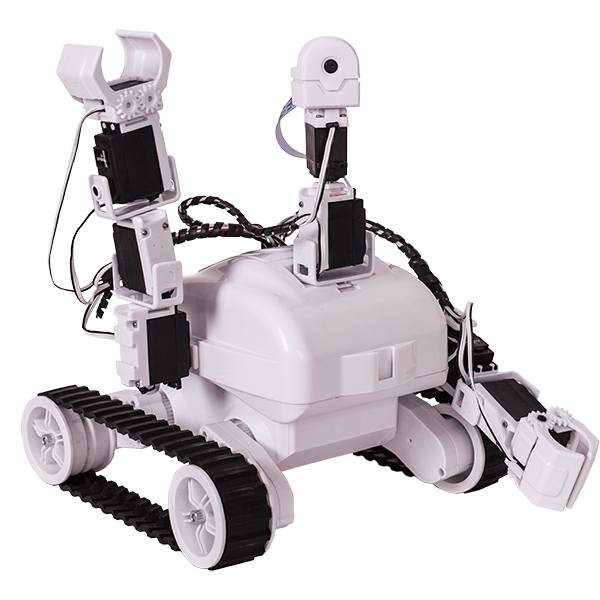
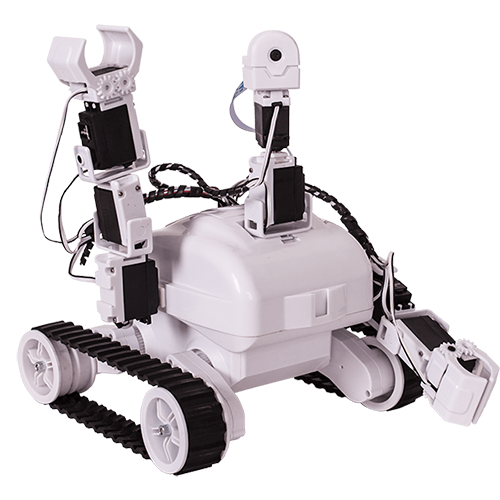
basic highlight engine created, image sizes homogenized, some changes made to html

diff --git a/robots.html b/robots.html
@@ -1,84 +1,86 @@
 <!DOCTYPE html>
 <html lang="en">
+
 <head>
   <title>Mr Robot!</title>
   <!-- <link rel="stylesheet" href="https://cdnjs.cloudflare.com/ajax/libs/font-awesome/4.7.0/css/font-awesome.css" type="text/css" /> -->
   <link rel="stylesheet" href="robotskin.css" type="text/css" />
-  <script type="text/javascript">
-    src="bower_components/less/dist/less.js" type="text/javascript"
+  <script src="bower_components/jQuery/dist/jquery.min.js" type="text/javascript"></script>
+  <script <script src="app.js" type="text/javascript"></script>
   </script>
-  </head>
+</head>
+
 <body>
   <header>
-      <div>
-          <a class="headerlogo" href="index.html">
+    <div>
+      <a class="headerlogo" href="index.html">
               <img src="images/logo.jpg" />
           </a>
-          <span id="headername">Mr. Robot</span>
-          <input type="search" class="searchbox" placeholder="Search our store" />
-      </div>
+      <span id="headername">Mr. Robot</span>
+      <input type="search" class="searchbox" placeholder="Search our store" />
+    </div>
 
-      <nav class="backgroundgradient">
-          <ul>
-            <li><a class="navlink" href="index.html">Home</a></li>
-            <li><a class="navlink active" href="robots.html">Robots</a></li>
-            <li><a class="navlink" href="computers.html">Hardware</a></li>
-            <li><a class="navlink" href="contact.html">Contact</a></li>
-            <li><a class="navlink" href="about.html">About</a></li>
-          </ul>
-      </nav>
+    <nav class="backgroundgradient">
+      <ul>
+        <li><a class="navlink" href="index.html">Home</a></li>
+        <li><a class="navlink active" href="robots.html">Robots</a></li>
+        <li><a class="navlink" href="computers.html">Hardware</a></li>
+        <li><a class="navlink" href="contact.html">Contact</a></li>
+        <li><a class="navlink" href="about.html">About</a></li>
+      </ul>
+    </nav>
   </header>
 
-<fieldset>
-<legend>Mr. Robot's Top Robot Models</legend>
+  <fieldset>
+    <legend><h2>Mr. Robot's Top Robot Models</h2></legend>
 
-<ul>
-<li >
-  <article id="robo1">
-  <h4>
+    <ul>
+      <li>
+        <article id="robo1">
+          <h4>
   <label for="imgrobo1">  Name:</label>
      R.E.T.</h4>
-  <img id="imgrobo1" src="images/roboDog.png" width=200 height=200 alt="robo1">
+          <img id="imgrobo1" src="images/roboDog.png" width=400 height=400 alt="robo1">
 
-  <h5><strong>Description:</strong> <br>This was our first robot.
-   He was modeled after the famous movie character E.T.</h5>
-</article>
-</li>
+          <h5><strong>Description:</strong> <br>This is our newest model.
+This one will follow you around the house.</h5>
+        </article>
+      </li>
 
-<li>
-  <article id="robo2">
-<h4>
+      <li>
+        <article id="robo2">
+          <h4>
 <label for="imgrobo2">  Name:</label>
    Butler.Bot</h4>
-<img id="imgrobo2" src="images/robot2.png" width=200 height=200 alt="robo1">
+          <img id="imgrobo2" src="images/robot2.png" width=400 height=400 alt="robo2">
 
-<h5><strong>Description:</strong> <br>This was our second robot.
+          <h5><strong>Description:</strong> <br>This was our second robot.
  He makes a mean martini!</h5>
-</article>
-</li>
-<li>
-  <article id="robo3">
-  <h4>
+        </article>
+      </li>
+      <li>
+        <article id="robo3">
+          <h4>
   <label for="imgrobo3">  Name:</label>
      Mega Man</h4>
-  <img id="imgrobo3" src="images/robot3.png" width=200 height=200 alt="robo1">
+          <img id="imgrobo3" src="images/robot3.png" width=400 height=500 alt="robo3">
 
-  <h5><strong>Description:</strong> <br>This is our newest model.
-   This one will follow you around the house.</h5>
+          <h5><strong>Description:</strong> <br>This was our first robot.
+   He was modeled after the famous movie character E.T.</h5>
 
-</article>
+        </article>
 
-</li>
-</ul>
-</fieldset>
+      </li>
+    </ul>
+  </fieldset>
 
-<footer>
-  <p>We are located at:<address>1011 Crater Ave, Moon City: THE MOON</address></p>
-  <p class="textcontent">All site contents is copyright <a class="mainlink" href="http://www.mrrobot.com">Mr Robot!</a></p>
-  <p class="smalltext">This page was generated on <time>09:25:04.123</time>.</p>
-</footer>
+  <footer>
+    <p>We are located at:<address>1011 Crater Ave, Moon City: THE MOON</address></p>
+    <p class="textcontent">All site contents is copyright <a class="mainlink" href="http://www.mrrobot.com">Mr Robot!</a></p>
+    <p class="smalltext">This page was generated on <time>09:25:04.123</time>.</p>
+  </footer>
 
-<template id="producttemplate">
+  <template id="producttemplate">
 <article>
   <label id="lblName" for="productimage">Name:</label>
   <img id="pimage" name="productimage" class="productarticlelargeimage" src="" alt="product image">
@@ -87,31 +89,33 @@
   </article>
   </article>
 </template>
-<template id="user">
+  <template id="user">
 <div>User</div>
      <template id="address">
              <div>Address</div>
      </template>
-</template>
-<script>
-  var robo = document.querySelector('#robo1').createShadowRoot();
-  /*Step1*/
-  let prdTemplate = document.querySelector('#producttemplate');
-  /*Step2*/
-  let clone = document.importNode(prdTemplate.content, true);
-  /*Step3*/
+  </template>
+  <script>
+    var robo = document.querySelector('#robo1').createShadowRoot();
+    /*Step1*/
+    let prdTemplate = document.querySelector('#producttemplate');
+    /*Step2*/
+    let clone = document.importNode(prdTemplate.content, true);
+    /*Step3*/
 
-  clone.querySelector('#pimage').src = 'images/roboDog.png';
-  clone.querySelector('#lblName').textContent = 'R.E.T';
+    clone.querySelector('#pimage').src = 'images/roboDog.png';
+    clone.querySelector('#lblName').textContent = 'R.E.T';
 
- /*Step4*/
-  robo.appendChild(clone);
-  let userTemplate = document.querySelector('#user');
-  let userClone = document.importNode(userTemplate.content, true);
-  document.body.appendChild(userClone);
+    /*Step4*/
+    robo.appendChild(clone);
+    let userTemplate = document.querySelector('#user');
+    let userClone = document.importNode(userTemplate.content, true);
+    document.body.appendChild(userClone);
     let addressTemplate = document.querySelector('#address');
     let addressClone = document.importNode(addressTemplate.content, true);
-  document.body.appendChild(addressClone);
-</script>
+    document.body.appendChild(addressClone);
+  </script>
+
 </body>
+
 </html>

diff --git a/app.js b/app.js
@@ -10,4 +10,14 @@ $(document).ready(function() {
 });
 
 
-// ----------------------------------------
+
+// Picture and info highlights
+
+$(document).ready(function() {
+  $("#imgrobo1, #imgrobo2, #imgrobo3").mouseover(function() {
+    $(this).addClass("focused");
+  });
+  $("#imgrobo1, #imgrobo2, #imgrobo3").mouseout(function() {
+    $(this).removeClass("focused");
+  });
+});
